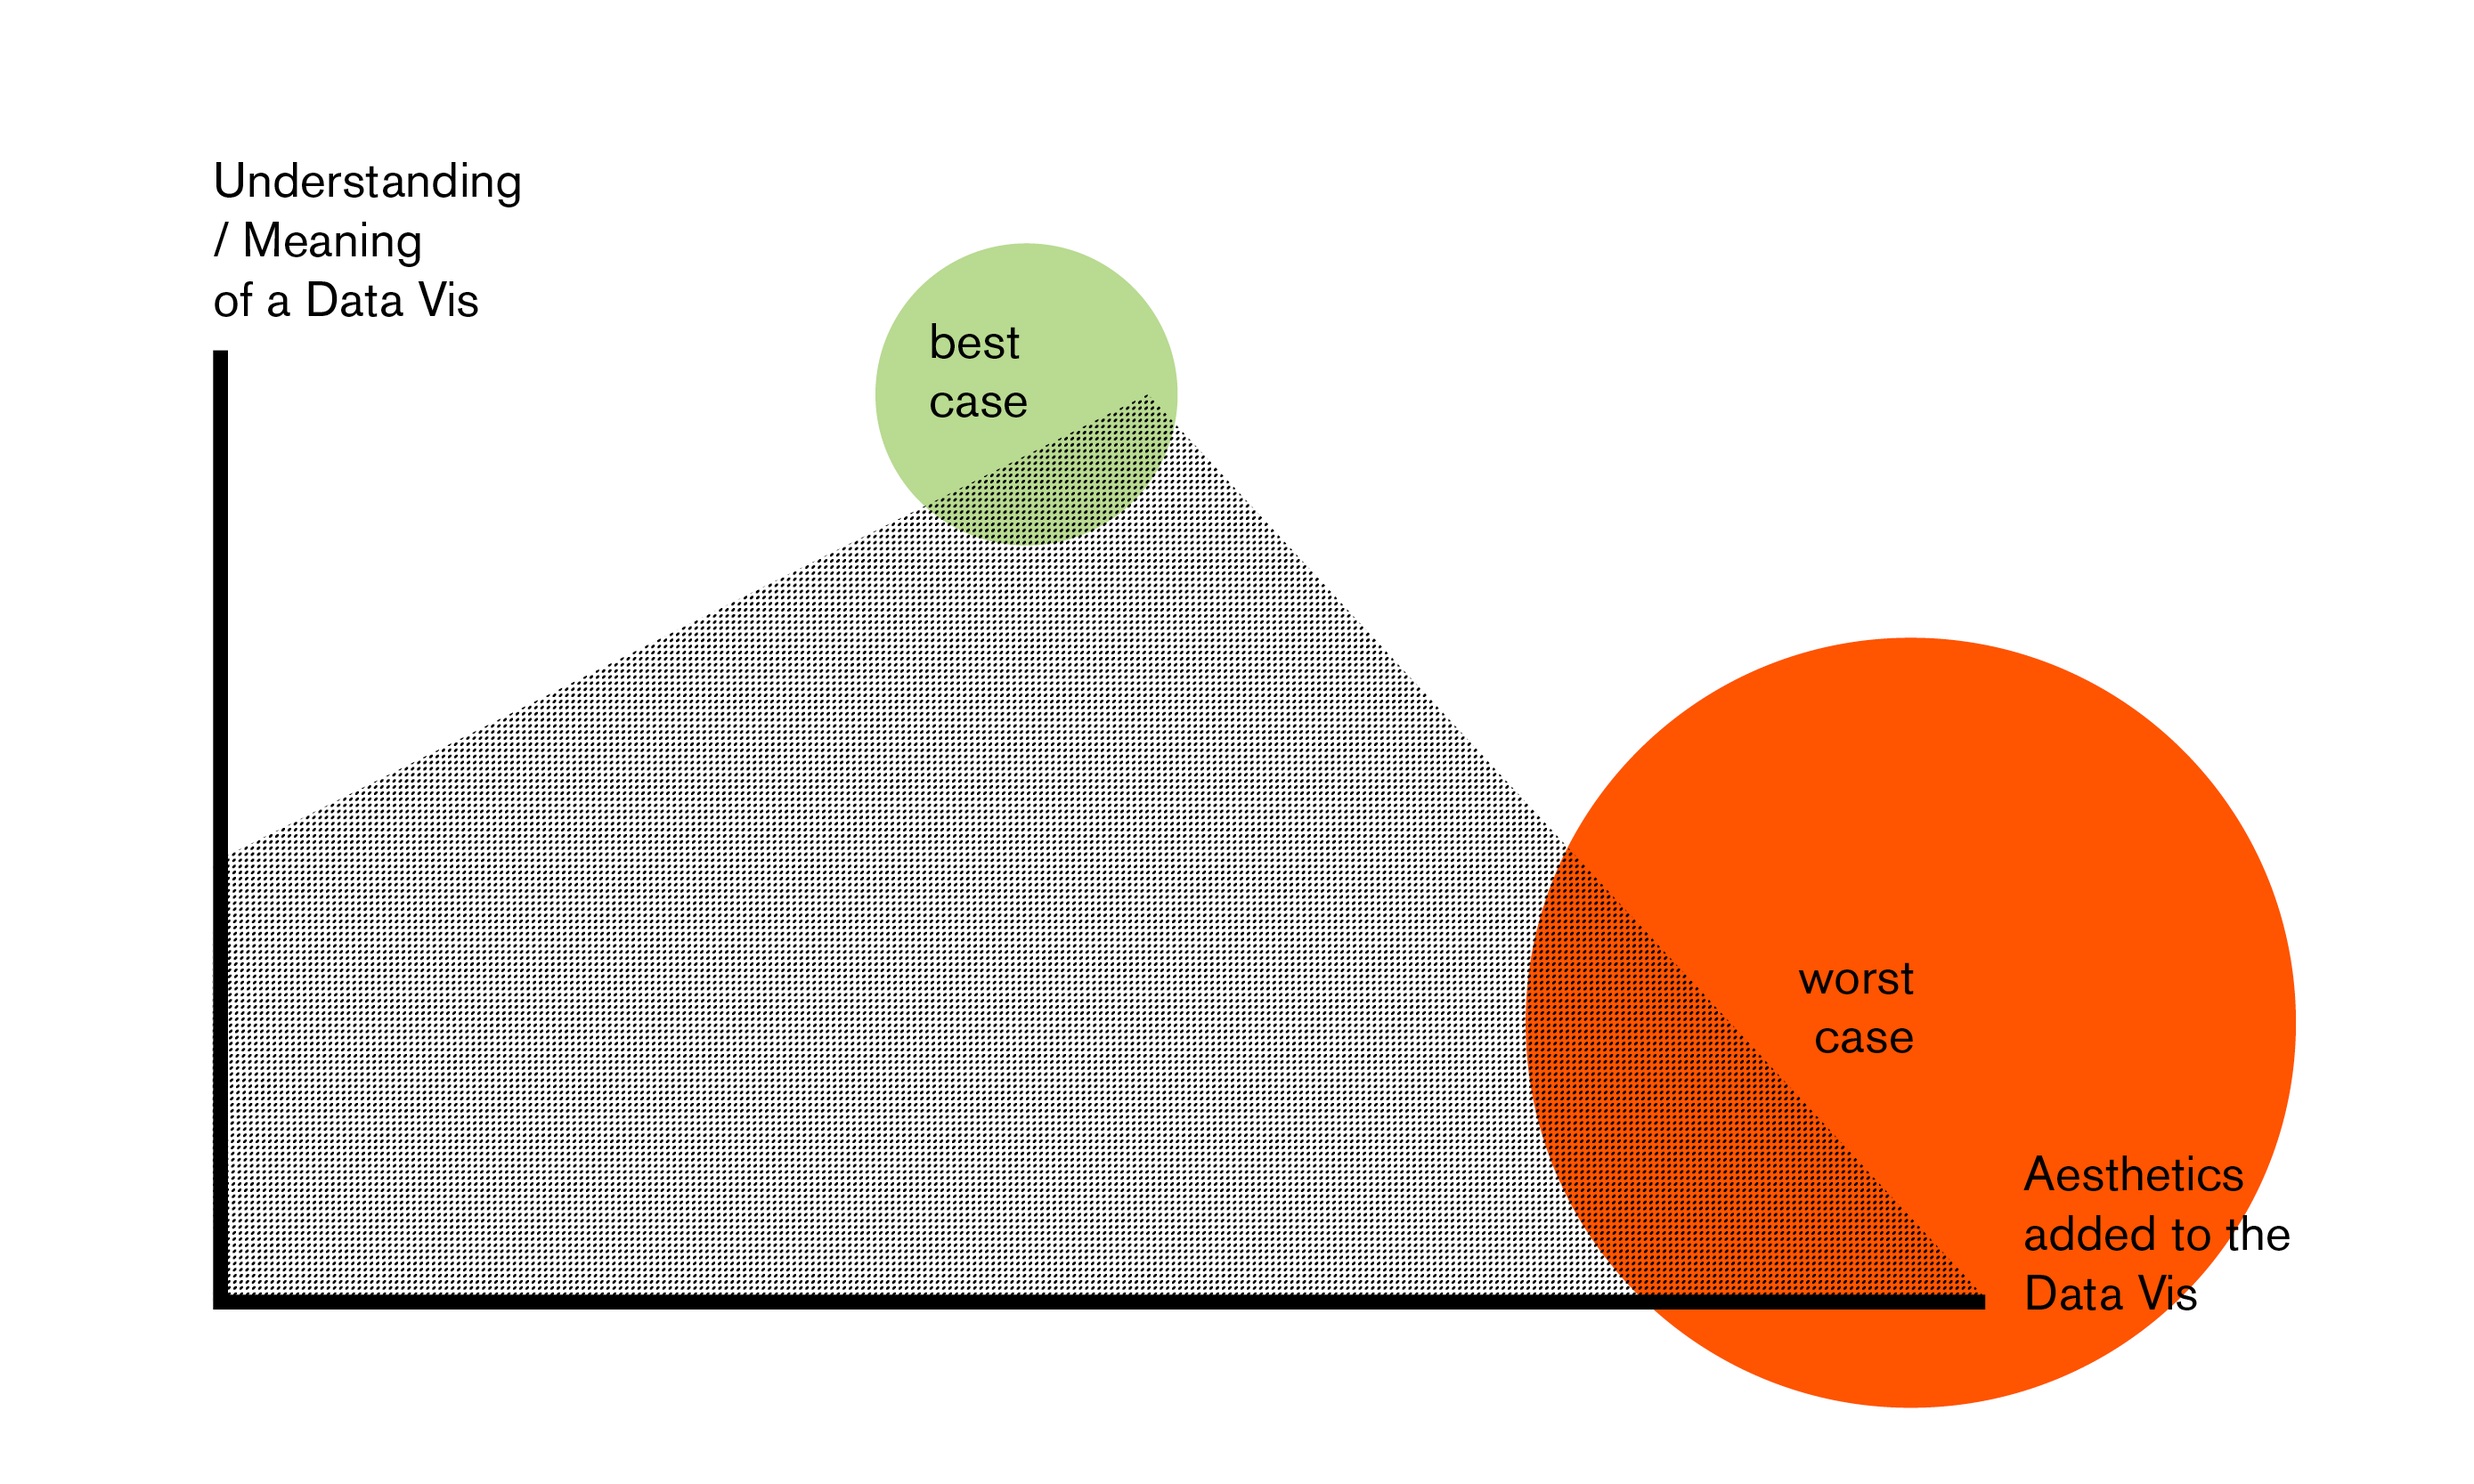
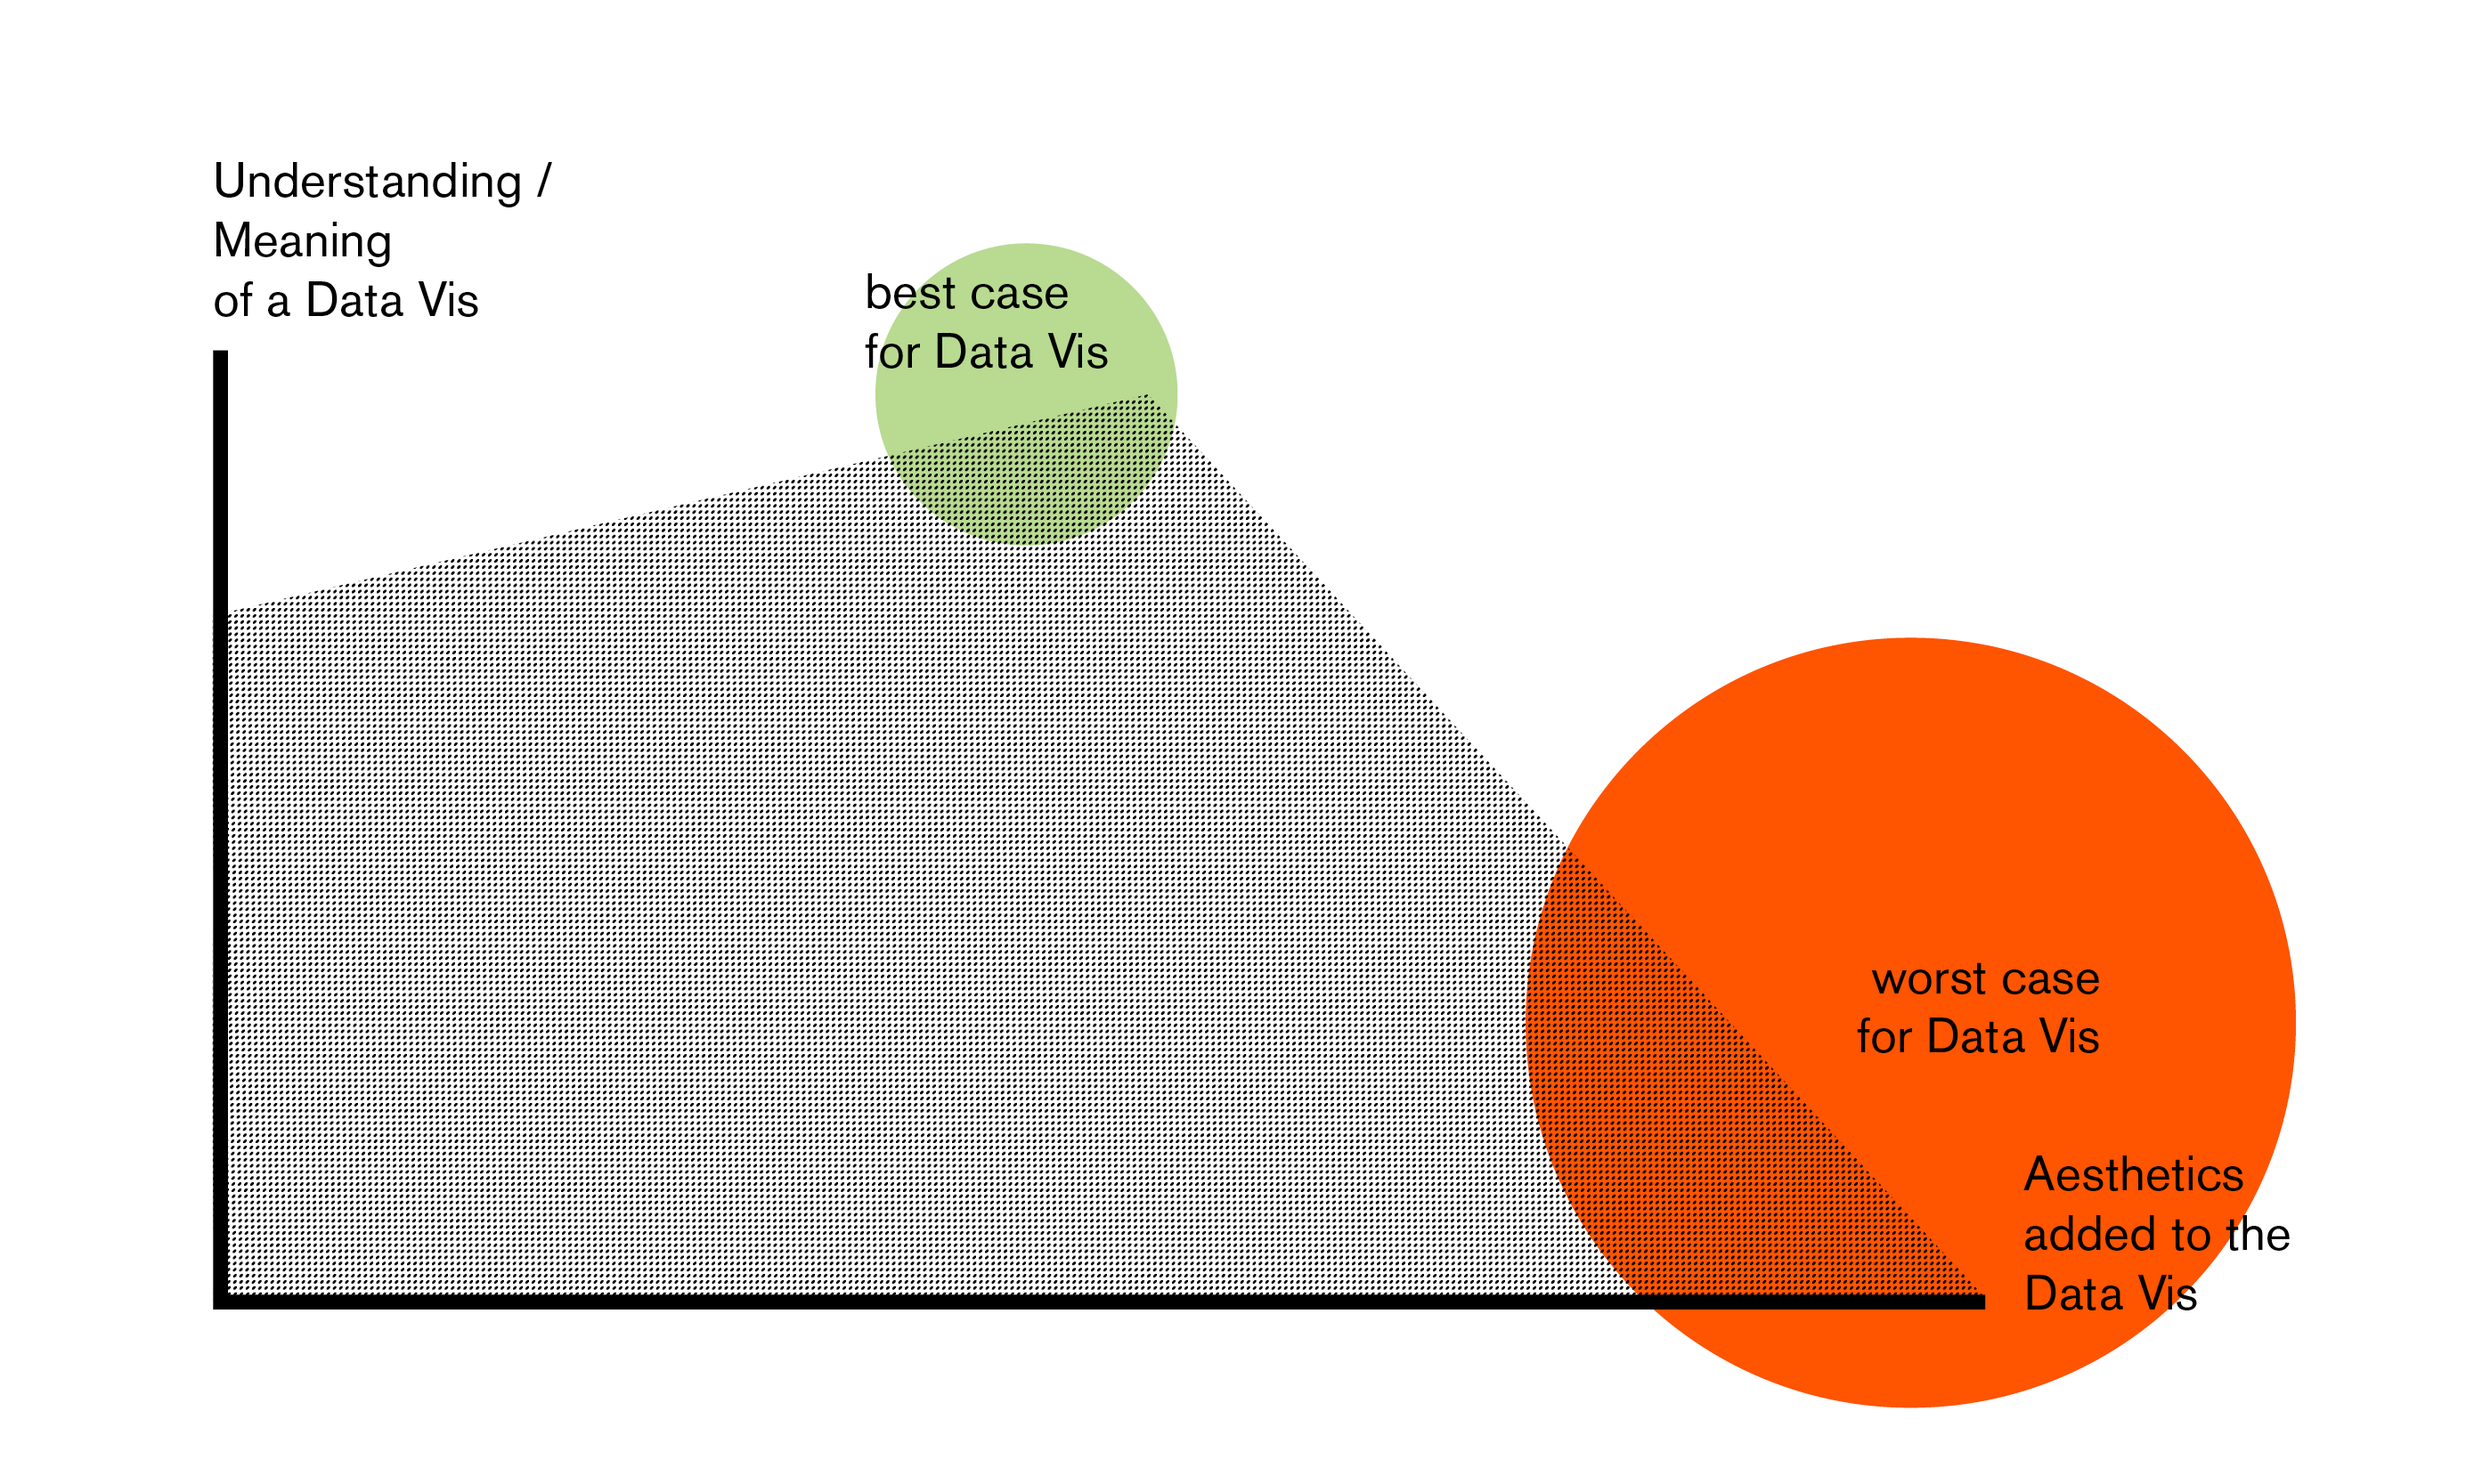
new pics and spelling

Changed region(s): [[0.0929, 0.1872, 0.4644, 0.5615], [0.712, 0.6551, 0.8668, 0.7175], [0.0929, 0.156, 0.1857, 0.1872]]

diff --git a/_posts/2015-12-19-Meaning-and-Beauty-in-Data-Vis.md b/_posts/2015-12-19-Meaning-and-Beauty-in-Data-Vis.md
@@ -3,28 +3,42 @@ layout: post
 title: Meaning + Beauty in Data Vis and Data Art
 tag: datavis, thoughts,
 ---
-![image](/pic/151220_DataVisDataArt.png)
 
-My last blog post let to a great, great debate on Twitter with great, great people. Thanks to everybody who attended and made me learn something new! Eg that in 2009, Manuel Lima wrote a Manifesto in which he touched the "divide between Information Art and Information Design, and which let to almost exactly the same debate that I had on Twitter. The points made reached from: **A divide is necessary, to help both fields.** to **A divide doesn't benefit anybody.** and **It's not possible to make the divide.** 
+**tl;dr: In Data Vis, we should see aesthetics as a tool to increase understanding. In Data Art, we can see aesthetics as the purpose.**
 
-I stumbled across one point in this debate which I've met a few times so far: **A data vis needs to be beautiful to be insightful**. For example, Kim Rees noted in [her comment on the Manifesto](http://www.visualcomplexity.com/vc/blog/?p=644): 
+My last blog post let to a [great, great debate on Twitter](https://twitter.com/lisacrost/status/676518447623348224) with great, great people. Thanks to everybody who attended and made me learn something new! E.g. that in 2009, Manuel Lima wrote a [Manifesto](http://www.visualcomplexity.com/vc/blog/?p=644) in which he touched the divide between Information Art and Information Design, and which let to almost exactly the same debate that I had on Twitter. The points made reached from: **A divide is necessary, to help both fields** to **A divide doesn't benefit anybody** and **It's not possible to make the divide**.
+
+I stumbled across one argument in this debate which I've met a few times so far: **A data vis needs to be beautiful to be insightful**. For example, Kim Rees noted in [her comment on the Manifesto](http://www.visualcomplexity.com/vc/blog/?p=644): 
+
 	"Visualizations should be coherent, convey information, and be good looking. We can compare this to architecture. An architect may focus solely on the structure and not the aesthetic and fail. Or she may focus solely on the aesthetic not the structure and fail. It’s the great (and few) architects who excel at both who create the truly wonderful buildings. [...]  I believe aesthetics are crucial to a coherent visualization."
 
-I think she's right, but it actually works in favour of thinking that "A divide is necessary, to help both fields", as I do. I want to extend on her point and result in a claim for more data art.
+I think she's right, but it actually works in favor of thinking that "A divide is necessary, to help both fields", as I do. I want to extend on her point and result in a claim for more Data Art. For that, I'll use the same "goals" of Data Vis that Kim Rees mentioned: a) conveying information, being insightful and increasing "understanding" of a dataset, being meaningful. And b) Aesthetics, beauty, being visual pleasing, being good looking. For me, the first point – understanding – is the ultimate goal of a Data Vis. This can mean proving a point, providing an overview of a topic or optimizing an exploratory Data Vis for insight discovery. 
 
-Aesthetics can certainly serve the understanding of a visualisation – to structure the content in a better way, make it better readable or get the reader's attention in the first place. But in my opinion, **aesthetics can serve the understanding only to a certain degree**. Meaning, an insightful chart which is ugly as hell is worse than an insightful chart which is well readable because of added aesthetics. But an insightful chart with too much focus on aesthetics and visual innovation (and therefore bad readabilty) is a worse chart than the ugly, insightful chart. There's a dangerous threshold that shouldn't be crossed. If a bar chart is the most graspable way to design a dataset, choosing a circular visualisation will increase aesthetics, but will decrease understanding. In a formula: 
+![image](/pic/151220_DataVisDataArt.png)
 
+How to increase the understanding of a Data Vis? Besides choosing the right data points, aesthetics can certainly serve the understanding of a visualization – to structure the content in a better way, make it better readable or get the reader's attention in the first place. But **more added aesthetics only means better understanding to a certain degree**. Meaning, an insightful chart which is ugly as hell is worse than an insightful chart which is well readable because of added aesthetics. But an insightful chart with too much focus on aesthetics and visual innovation (and therefore bad readability) is a worse chart than the ugly, insightful chart. For example, if a bar chart is the most graspable way to design a dataset, choosing a circular visualization will increase aesthetics, but will decrease understanding. In a formula: 
 
 **Beauty that increases Meaning > Meaning without Beauty > Beauty that decreases Meaning**
 
 or, extremely broken down:
 
-**Meaning + Beauty > just Meaning > just Beauty**. 
+**Meaning + Beauty > just Meaning > just Beauty** 
 
-BUT that formula is only true when talking about data visualisation and their purpose of being insightful. **In Data ART, aesthetics CAN and sometimes SHOULD be the first priority**. "Too much aesthetics" or "just beauty" can be a good thing. Not being dependent on the understanding anymore will make the visual experience enourmously better – and it will make circular visualisations look like a dull compromise. An example: I find some [NYT](www.nytimes.com/interactive/2014/06/05/upshot/how-the-recession-reshaped-the-economy-in-255-charts.html?abt=0002&abg=1) and [Periscopic](http://www.periscopic.com/) charts visually pleasing – and I'm glad they are, because it helps to convey the data. But [Jorinde Voigt](http://jorindevoigt.com/blog/?cat=55)? WOAH. Her images blows my mind! "The data itself is [...] not important for the message, but serves [...] to communicate a higher, sublime experience.", I wrote about the work of Jorinde Voigt a few years ago in an university essay. 
+
+
+BUT that formula is only true when talking about Data Visualization and their purpose of being insightful. **In Data ART, aesthetics CAN and sometimes SHOULD be the first priority**. "Too much aesthetics" or "just beauty" can be a good thing. Not being dependent on the understanding anymore will make the visual experience enormously better – and it will make circular visualizations look like a dull compromise. 
 
 ![image](/pic/151220_DataVisDataArt2.png)
 
-Yes, art is not only about aesthetics. Got it. But most people get attracted to the field by exactly that: The aesthetical side of data vis. They like that data vis combines data (aka "the serious stuff" and sometimes an accessible way for them to get in touch with aesthetics) with vis (aka "something pretty"). But that results in **an overhang of data vis which tries too hard to be beautiful to be meaningful**.
+An example: I find some [NYT](www.nytimes.com/interactive/2014/06/05/upshot/how-the-recession-reshaped-the-economy-in-255-charts.html?abt=0002&abg=1) and [Periscopic](http://www.periscopic.com/) charts visually pleasing – and I'm glad they are, because it helps to convey the data. But [Jorinde Voigt](http://jorindevoigt.com/blog/?cat=55)? WOAH. Her images blows my mind! "The data itself is not important for the message, but serves to communicate a higher, sublime experience.", I wrote about the work of Jorinde Voigt a few years ago in an university essay. 
 
-I want these people to discover data art. To stand to their love of data aesthetics and to not sell their data art as data vis anymore. To get rid of compromises. To say openly: **"Yes, this data vis piece doesn't tell you anything about the data points. My aim was a different one."** Only then we can have an honest conversation about how to improve their work. To make that happen, it's important to regognize data art as valuable. As Jer Thorp said in 2009a: "I’d argue that work that might get classified as Information Art should be considered to be as serious and as important as that which gets labelled as Information Visualization."
+Yes, art is not only about aesthetics. Got it. But lots of people get attracted to the field by exactly that: The aesthetical side of Data Vis. They like that Data Vis combines "the serious stuff" (data) with "something pretty" (vis). Often, the visualization of data is an accessible way for them to get in touch with aesthetics. They buy [coffee table books](http://infosthetics.com/archives/2010/03/data_flow_2_book_review.html), get amazed by the looks and want to replicate it. But that results in **an overhang of Data Vis which tries too hard to be beautiful to be meaningful**.
+
+I want these people to discover Data Art. To stand to their love of data aesthetics and to not sell their Data Art as Data Vis anymore. To get rid of compromises. To say openly: **"Yes, this visualization piece doesn't tell you anything about the data points. My aim was a different one."** Only then we can have an honest conversation about how to improve their work. To make that happen, it's important to recognize Data Art as valuable. As [Jer Thorp said in 2009](http://www.visualcomplexity.com/vc/blog/?p=644): "I’d argue that work that might get classified as Information Art should be considered to be as serious and as important as that which gets labeled as Information Visualization." 
+
+![image](/pic/151220_DataVisDataArt3.png)
+
+My source for the assumptions made are not only students of mine and people I talk to at the Data Vis Meetup Berlin, but also myself. My portfolio makes clear that I'm often on the "too much beauty for data vis"-side; I'm on the right side of the chart. I've traded meaning and readability for aesthetics many times. In the last few months and [with blog posts like this](lisacharlotterost.github.io/2015/06/20/Searching-through-the-years/), I've tried to move more to the left side of the chart. But because of my love of aesthetics, I should also move into Data Art; to the bottom right of the chart. For me – and in my opinion for lots of other people, too – it's better to separate the two purposes (insights and aesthetics) then to satisfy both.
+
+Where do you stand? 
+
